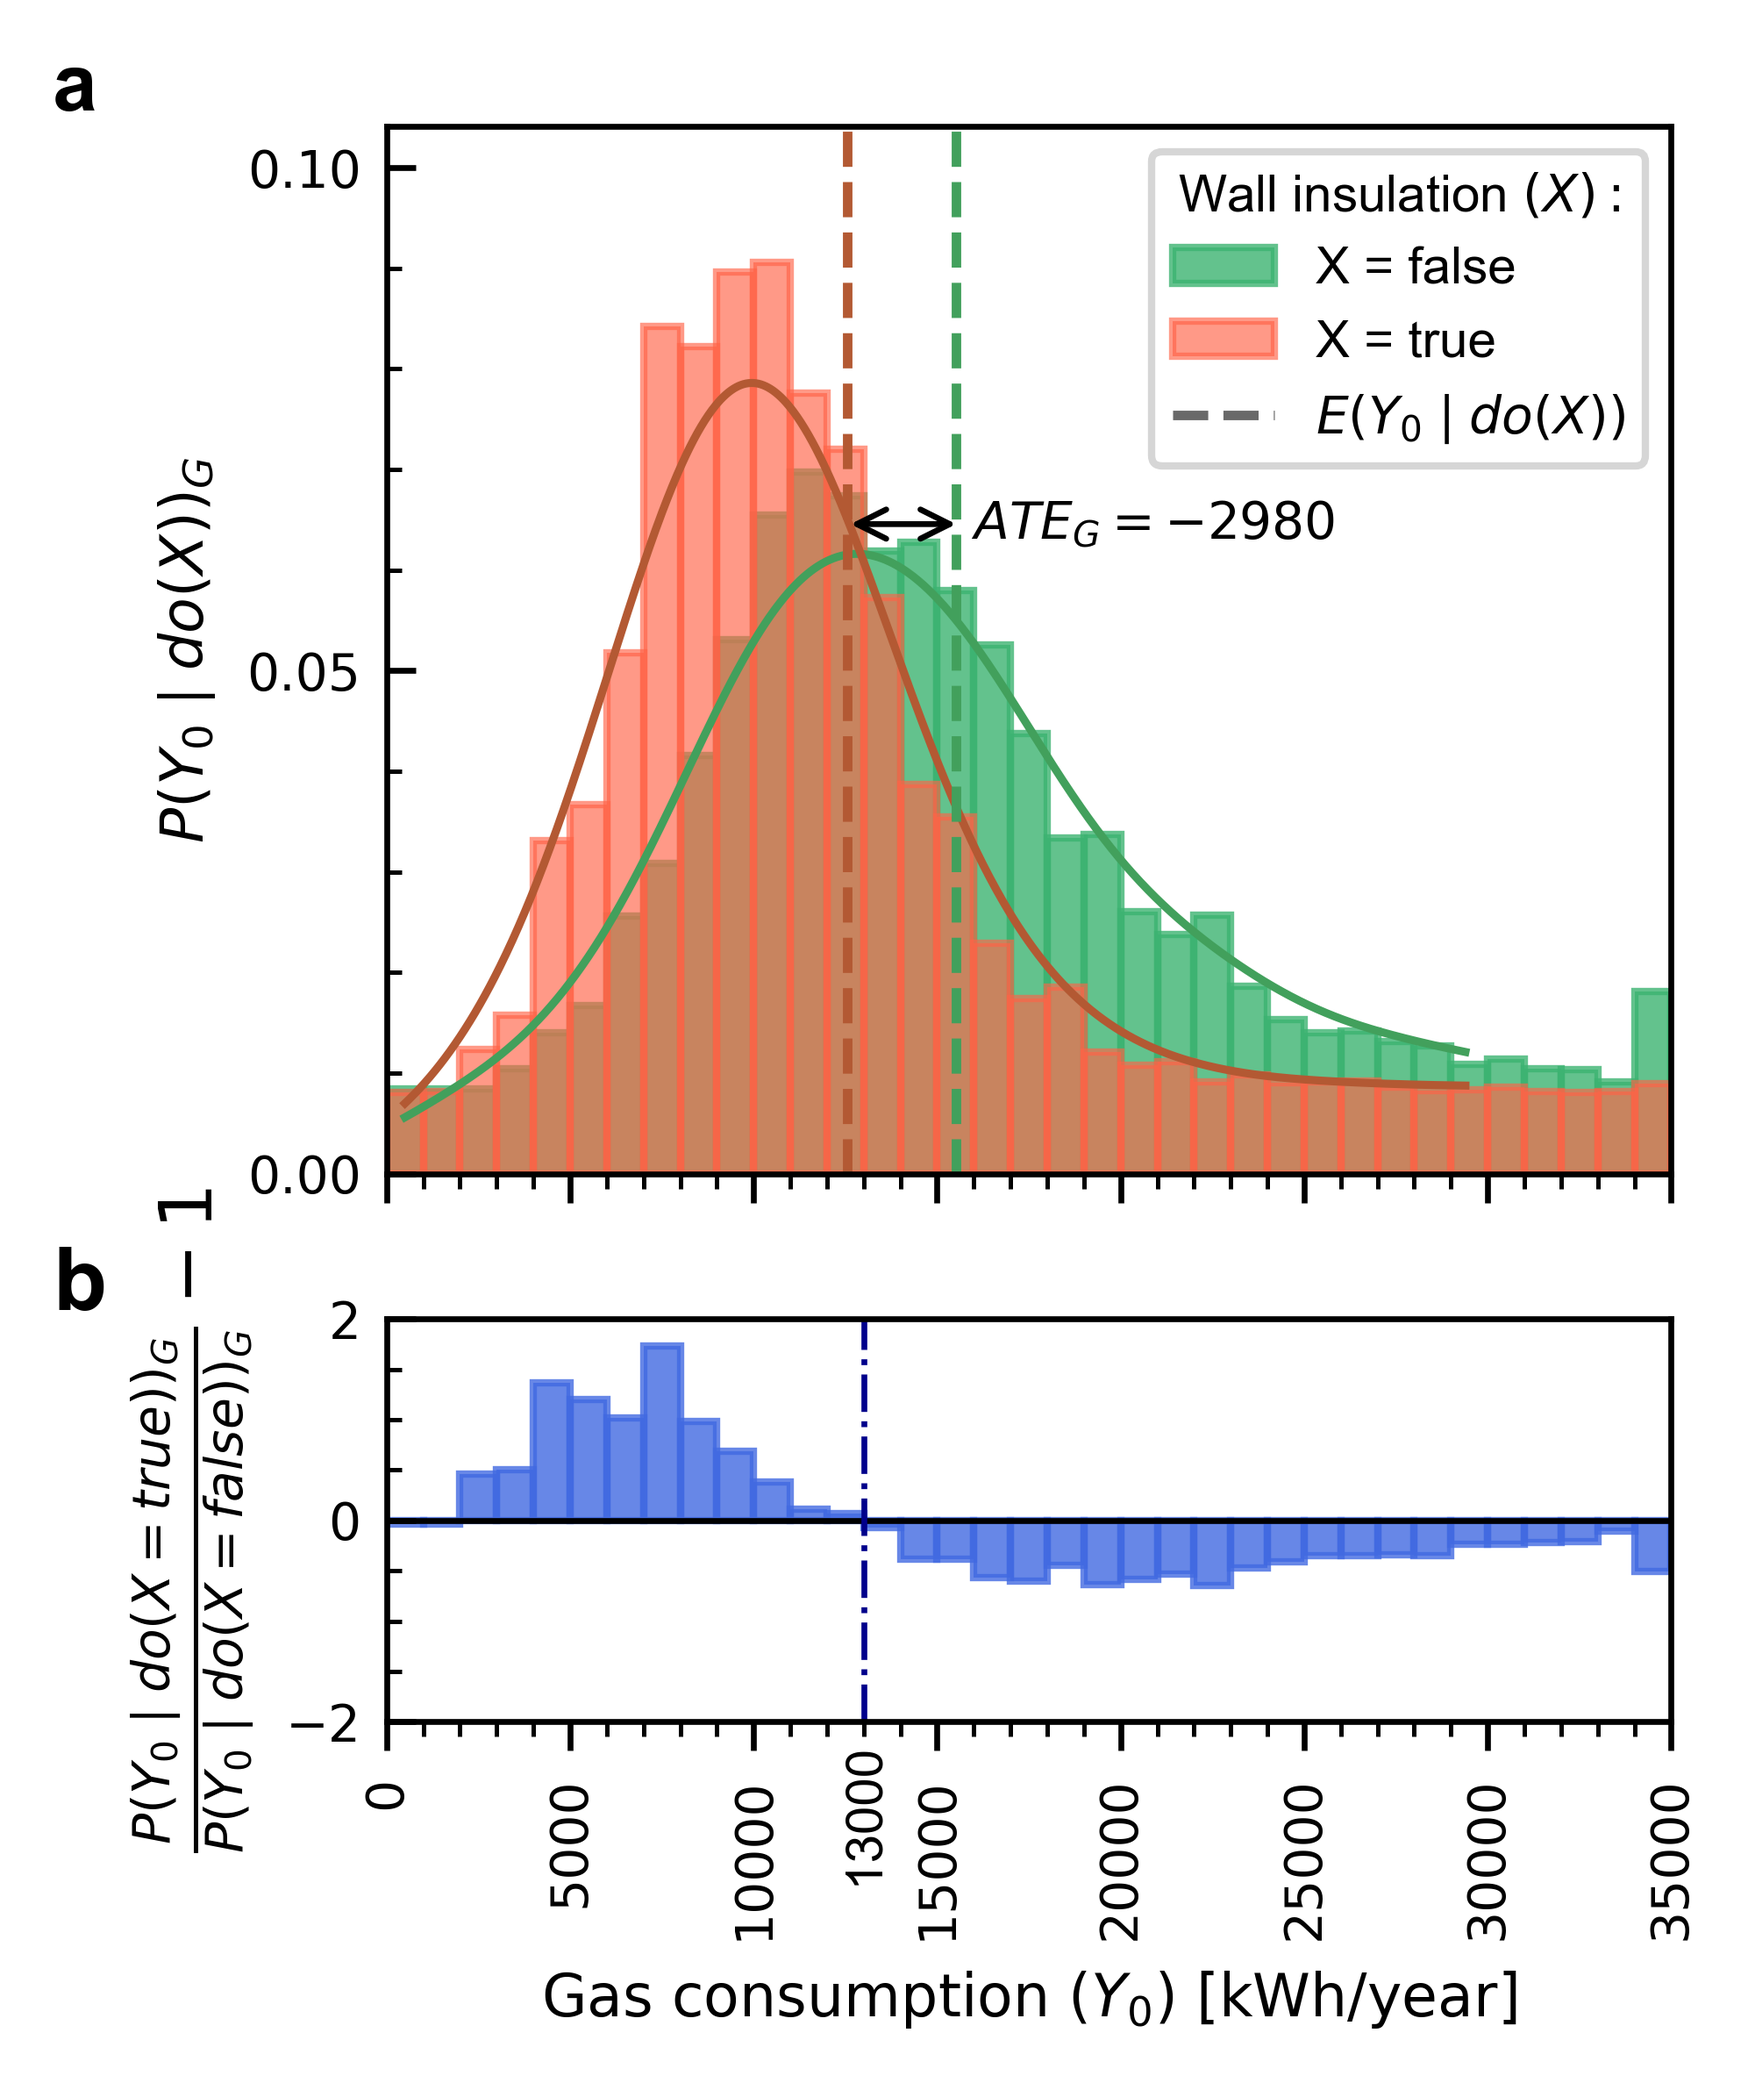
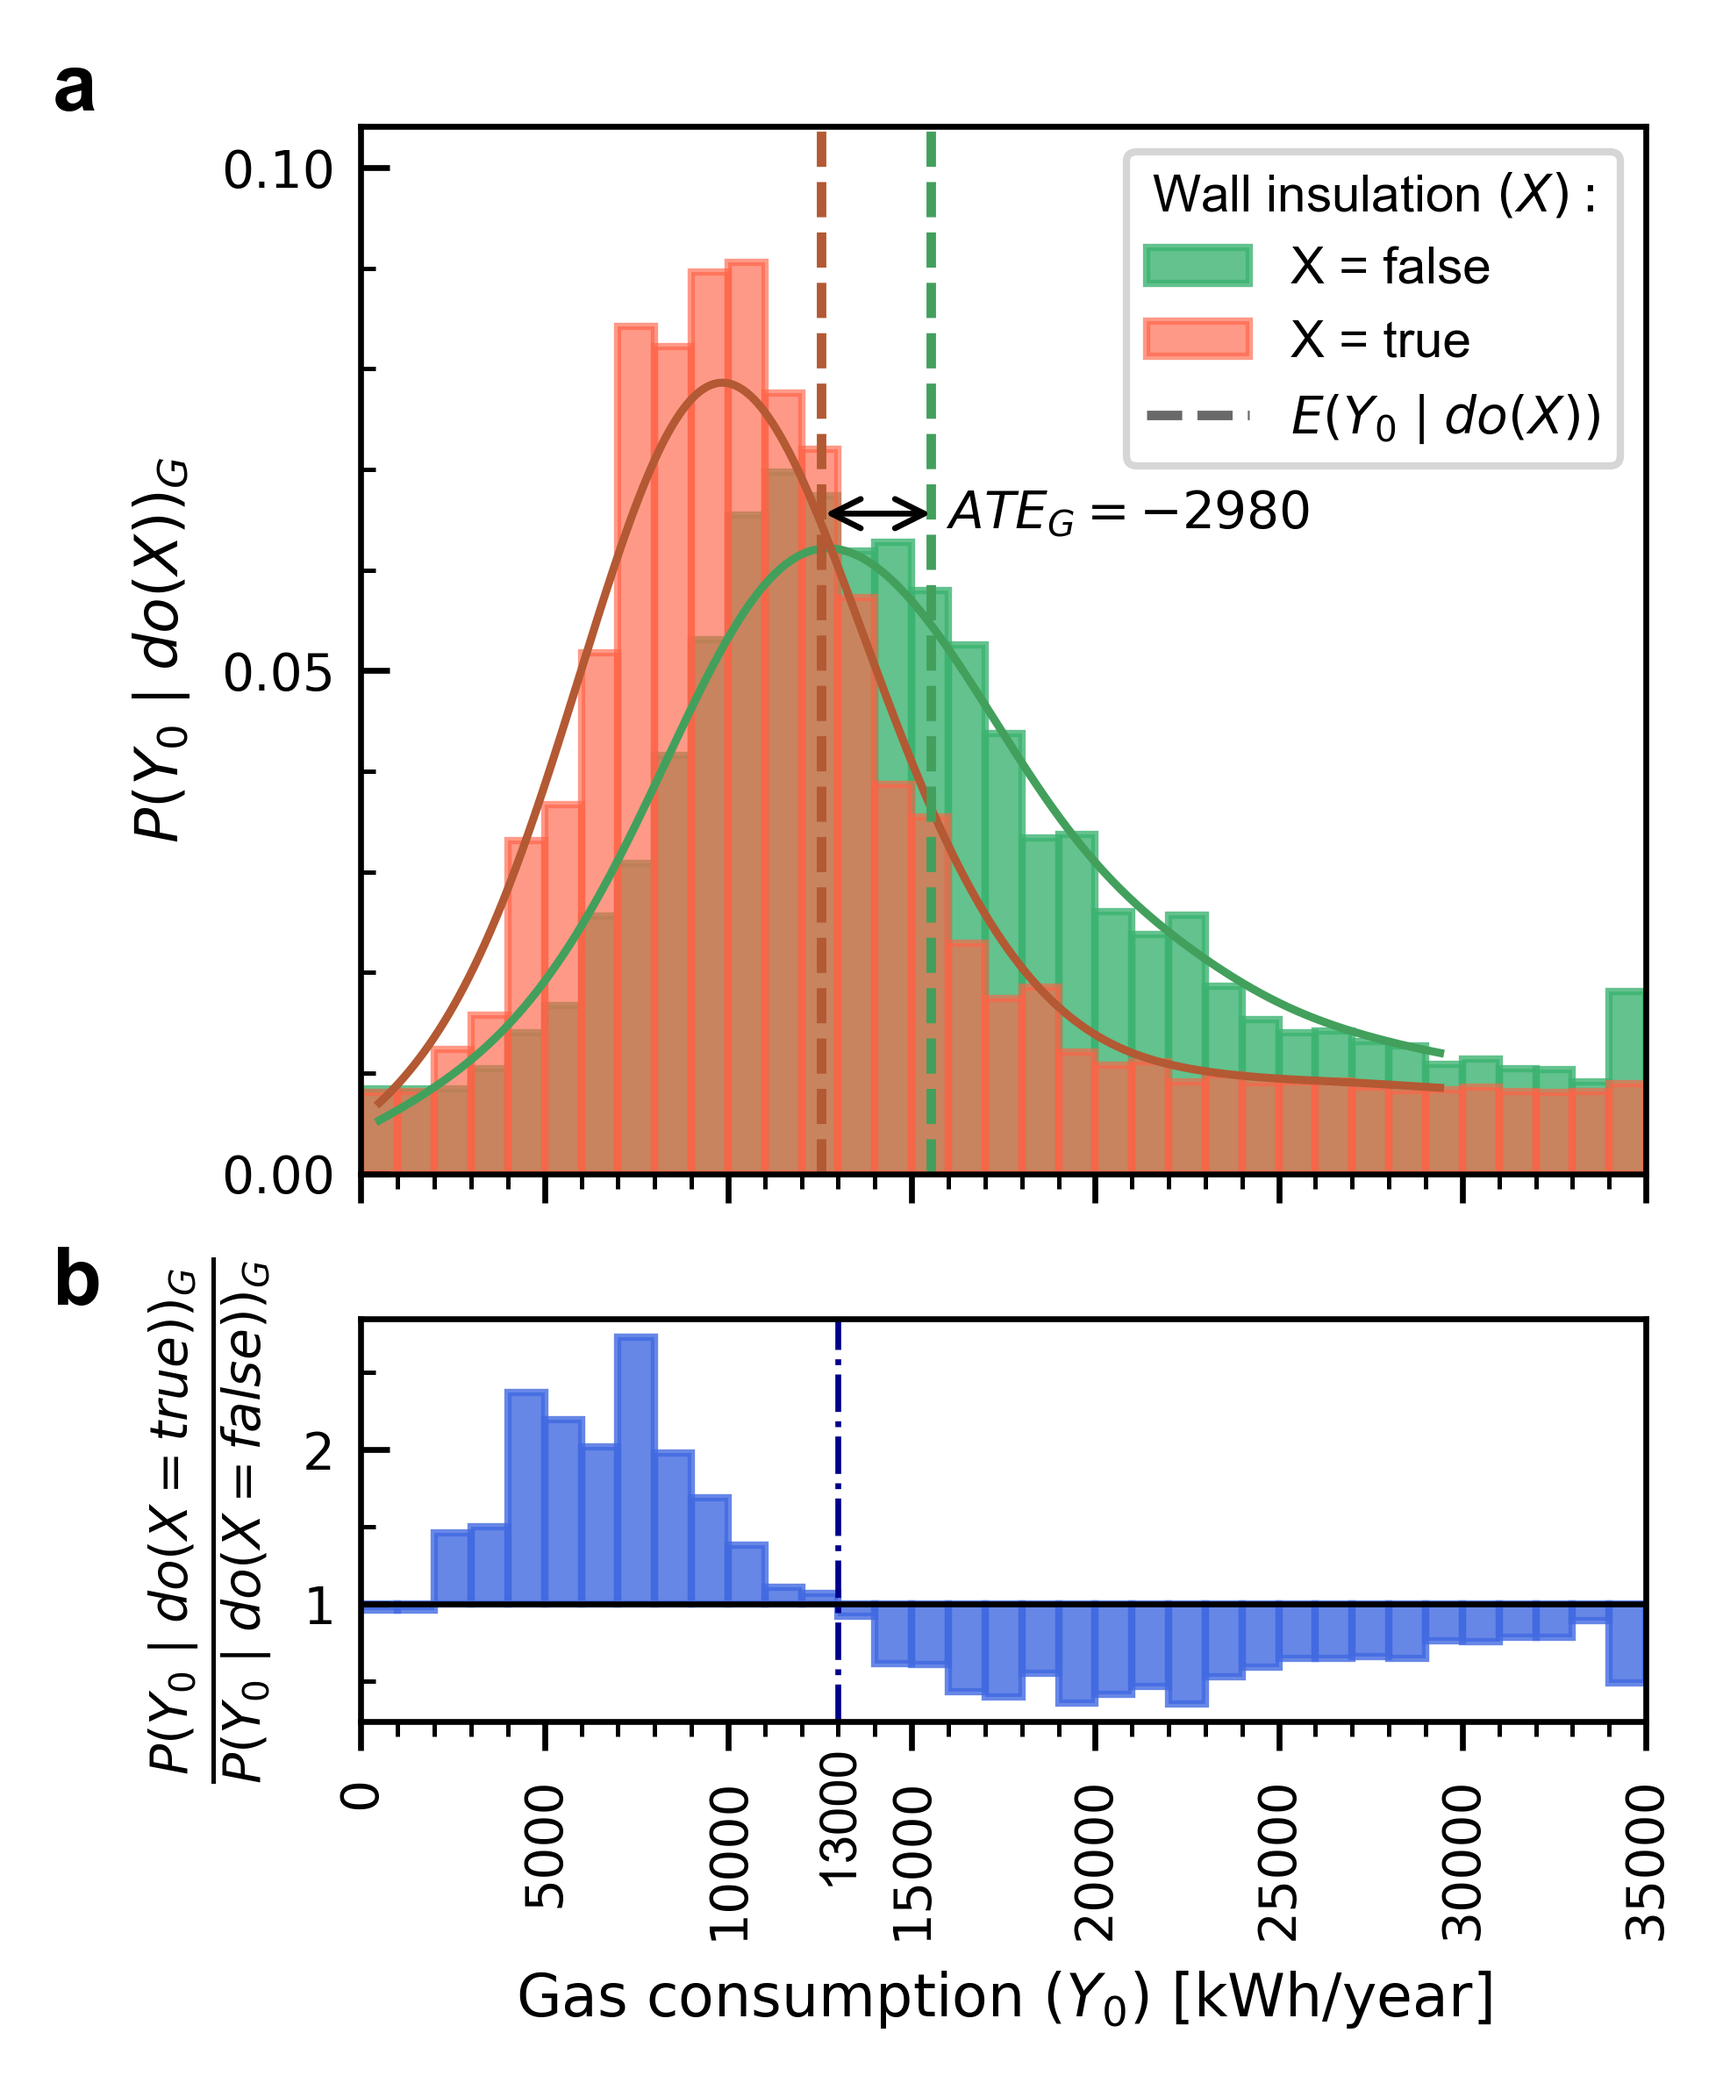
nc

diff --git a/Plotter.py b/Plotter.py
@@ -70,9 +70,9 @@ class Plotter():
         
 
  
-        ax1.annotate("", xy=(exp_Xx_1, y_axis_upper_limit*0.62), xytext=(exp_Xx_2-300, y_axis_upper_limit*0.62), arrowprops=dict(facecolor='black', edgecolor='black', arrowstyle='<->', lw=0.8, shrinkB=0.))
-        ax1.text(exp_Xx_1+400, y_axis_upper_limit*0.62, r'$ATE_{G}$' + rf'$ = {int(exp_Xx_2-exp_Xx_1)}$', fontsize=7, ha='left', va='center')
-        ax1.text(-0.26, 1.07, 'a', transform=ax1.transAxes, fontsize=11, fontweight='bold', va='top', ha='left')
+        ax1.annotate("", xy=(exp_Xx_1, y_axis_upper_limit*0.63), xytext=(exp_Xx_2-300, y_axis_upper_limit*0.63), arrowprops=dict(facecolor='black', edgecolor='black', arrowstyle='<->', lw=0.8, shrinkB=0.))
+        ax1.text(exp_Xx_1+400, y_axis_upper_limit*0.63, r'$ATE_{G}$' + rf'$ = {int(exp_Xx_2-exp_Xx_1)}$', fontsize=7, ha='left', va='center')
+        ax1.text(-0.24, 1.07, 'a', transform=ax1.transAxes, fontsize=11, fontweight='bold', va='top', ha='left')
         #-----------------------------------------------------------------------------------------------
 
         bar_height = pd.DataFrame()
@@ -86,15 +86,15 @@ class Plotter():
         #ax2.plot(x, y, linewidth=0.9, color='darkblue')
         ax2.axhline(y=0., color='black', linestyle='-', linewidth=0.8)
         ax2.axvline(x=13000., color='darkblue', linestyle='-.', linewidth=0.8)
-        ax2.text(13000, -2.2, '13000', fontsize=7, ha='center', va='top', rotation=90)
+        ax2.text(13000, -0.9, '13000', fontsize=7, ha='center', va='top', rotation=90)
 
         ax2.bar(x=doXx_1_distrib['Y_0'], height=bar_height['PR(Y_0)'], width=self._bin_width(doXx_1_distrib), edgecolor='royalblue', alpha=0.8, color='royalblue')
         
         ax2.set_xlabel(r'Gas consumption $(Y_0)$ [kWh/year]', fontsize=8)
-        ax2.set_ylabel(r'$\frac{P(Y_0 \mid do(X=true))_{G}}{P(Y_0 \mid do(X=false))_{G}} - 1$', fontsize=10)
+        ax2.set_ylabel(r'$\frac{P(Y_0 \mid do(X=true))_{G}}{P(Y_0 \mid do(X=false))_{G}}$', fontsize=10)
 
         ax2.minorticks_on()
-        ax2.yaxis.set_major_locator(plt.MultipleLocator(2))
+        ax2.yaxis.set_major_locator(plt.MultipleLocator(1))
         ax2.yaxis.set_minor_locator(plt.MultipleLocator(0.5))
 
         ax2.tick_params(axis='x', which='major', direction='out', length=4, labelsize=7)
@@ -103,13 +103,16 @@ class Plotter():
         ax2.tick_params(axis='y', which='minor', direction='in', length=2)
 
         plt.xticks(rotation=90)
+
+        # Set new y labels shifted by +1
+        yticks = ax2.get_yticks()
+        ax2.set_yticklabels([str(int(tick + 1)) for tick in yticks])
         
-        #y_axis_upper_limit = max(doXx_2_distrib['P(Y_0 | do(X=2))'].to_list()) * 1.15
-        ax2.set_ylim(-2, 2.)
+        #ax2.set_ylim(-3, 3.)
         ax2.set_xlim(0, 35000)
 
-        ax2.text(-0.26, -.07, 'b', transform=ax1.transAxes, fontsize=12, fontweight='bold', va='top', ha='left')
-        
+        ax2.text(-0.24, -.07, 'b', transform=ax1.transAxes, fontsize=11, fontweight='bold', va='top', ha='left')
+
 
         w = str(width_cm).replace('.', '-')
         h = str(height_cm).replace('.', '-')
